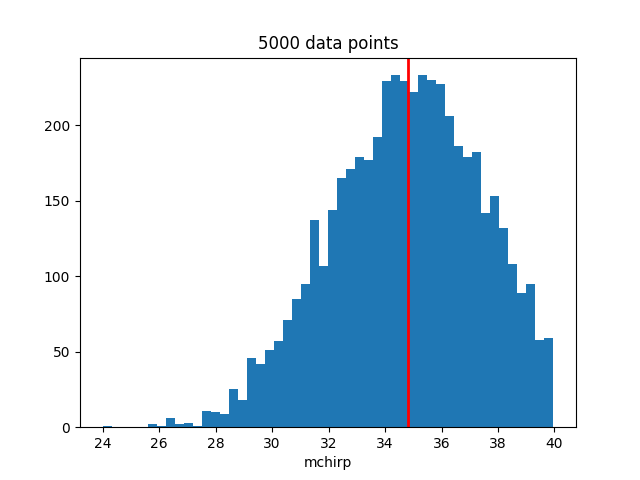
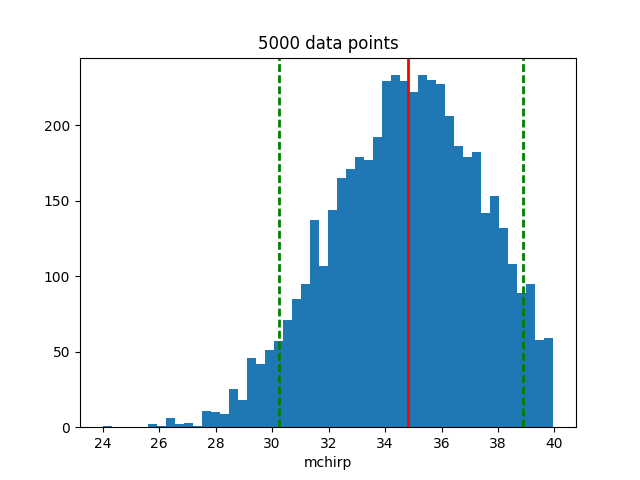
Testing new confidence intervals

diff --git a/Inference/ownPost.py b/Inference/ownPost.py
@@ -54,8 +54,8 @@ plt.figure()
 plt.title("%d data points" % (values))
 plt.hist(parameter_values,50)
 plt.axvline(x=injected_value,linewidth=2,color='r')
-plt.axvline(x=lower_90,linewitdh=2,linestyle='dashed',color='g')
-plt.axvline(x=upper_90,linewitdh=2,linestyle='dashed',color='g')
+plt.axvline(x=lower_90,linewidth=2,linestyle='dashed',color='g')
+plt.axvline(x=upper_90,linewidth=2,linestyle='dashed',color='g')
 plt.xlabel("%s" % parameter)
 plt.savefig("%s.png" % savename)
 plt.show("hold")
